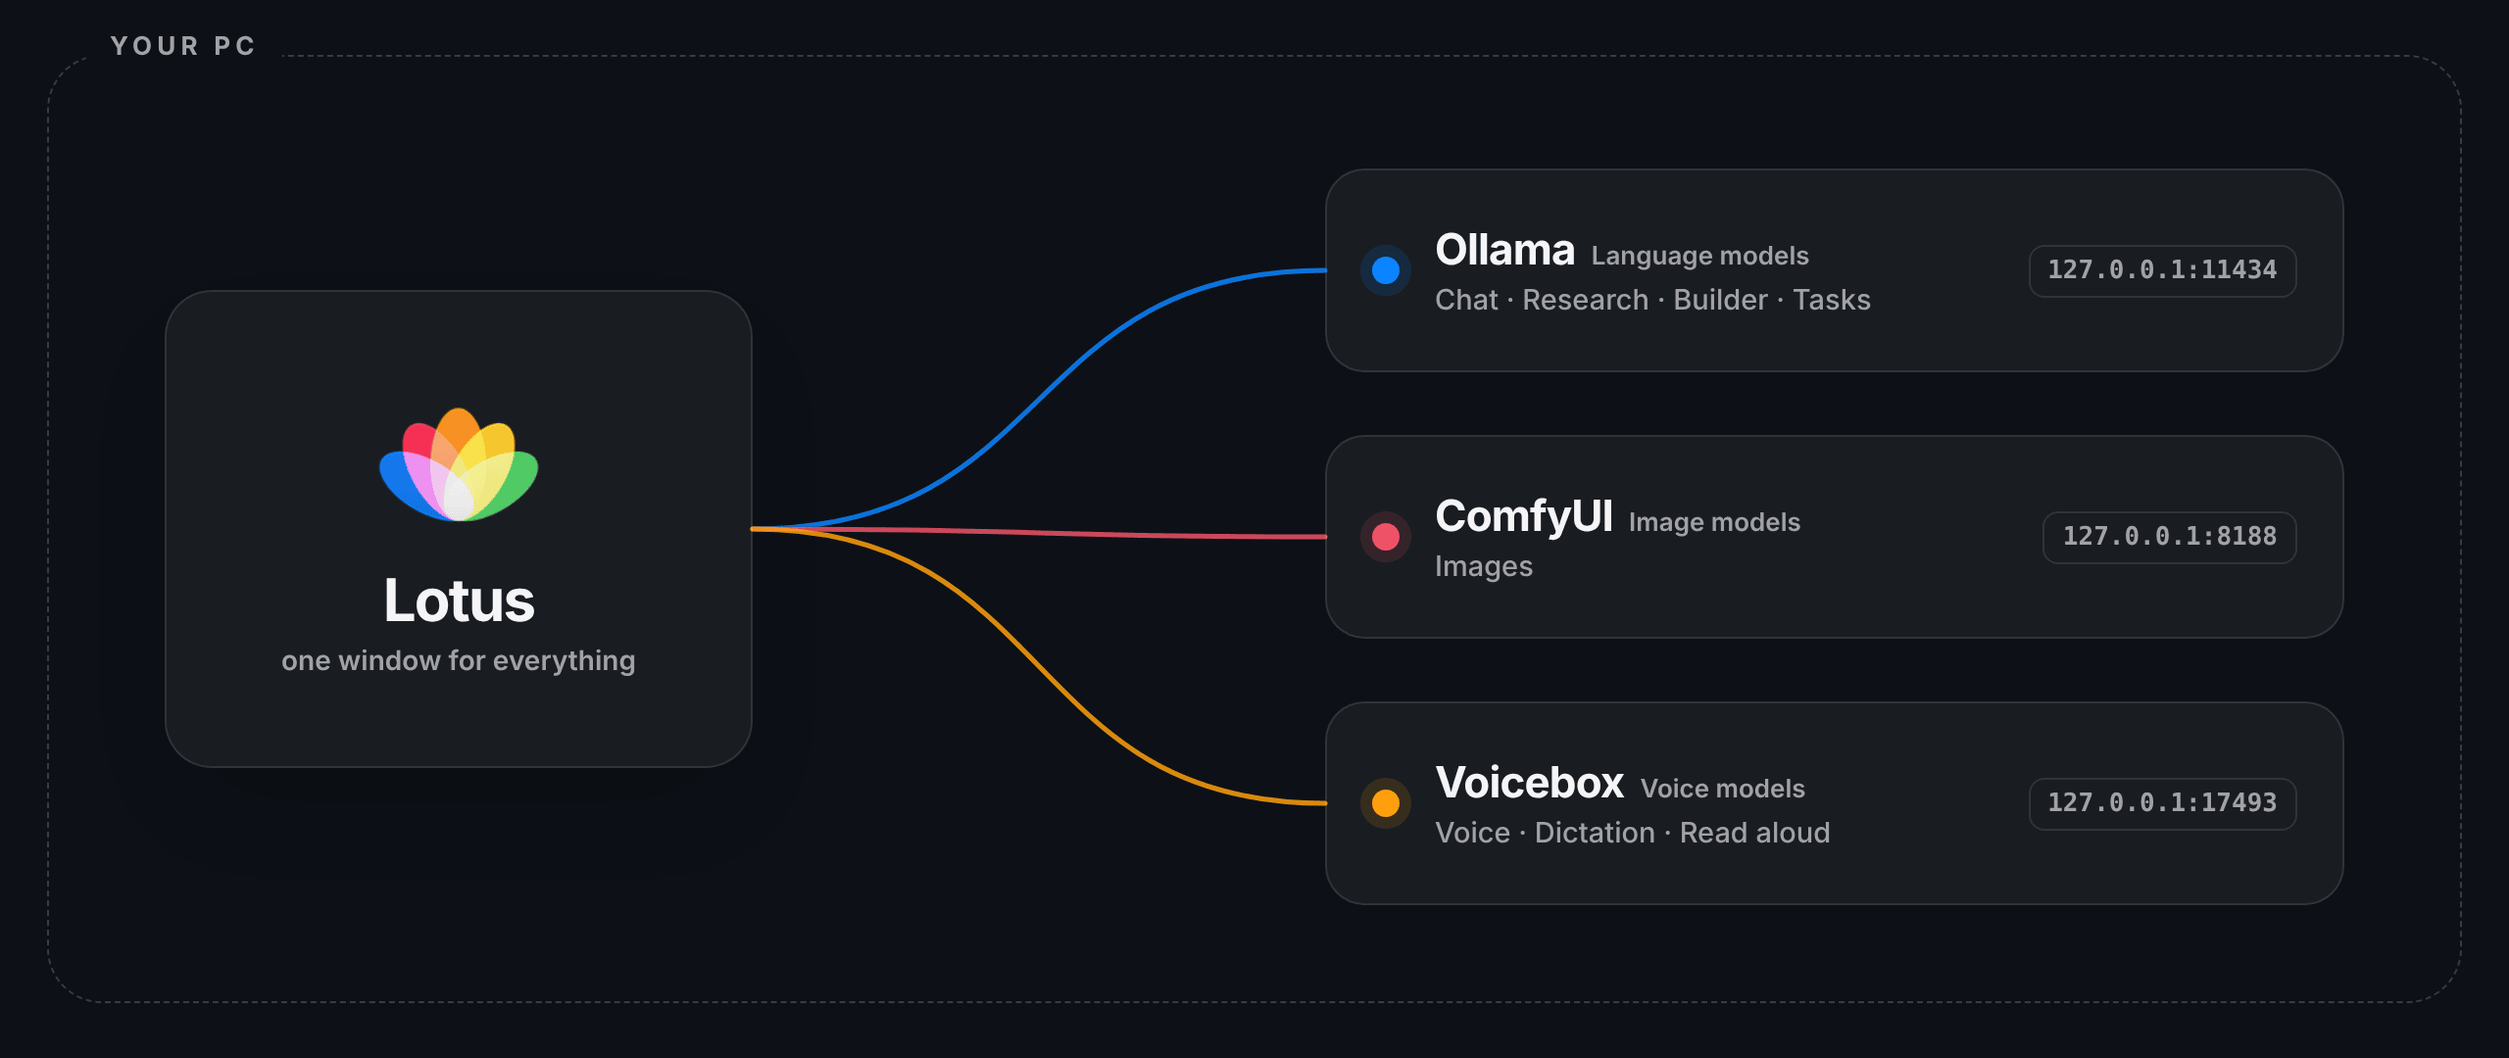
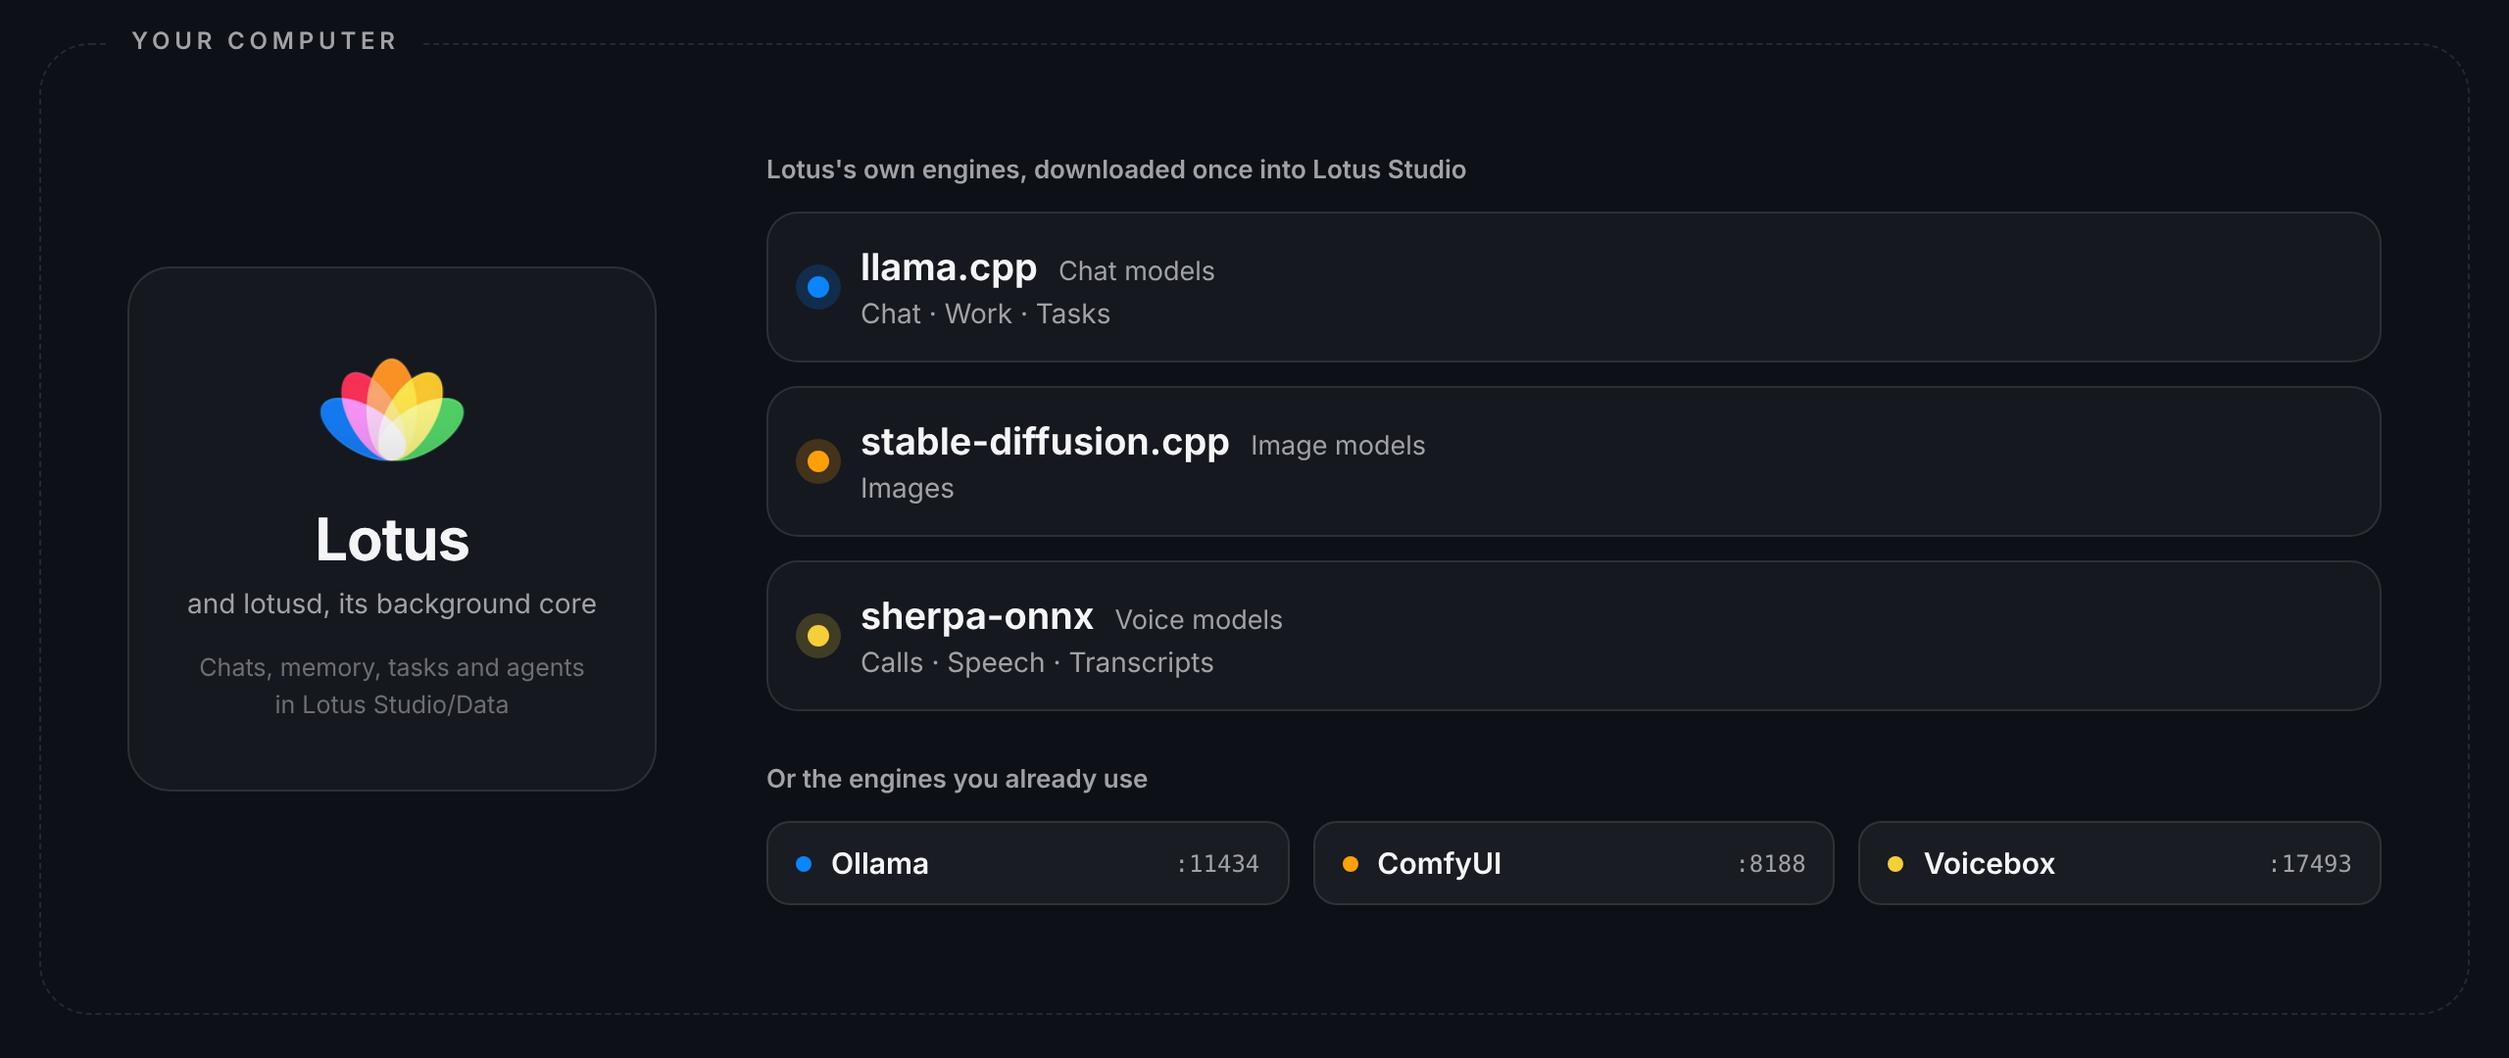
README for 0.11.0: Work and agents, built-in engines, new pictures
Rewrites the features for the five current pages (Chat, Work, Images, Voice,
Tasks), the intro and the engine diagram for Lotus's own engines, the privacy
rows (Work, Chrome control, engine downloads) and requirements. New petal cards,
engine diagram and Work showcase, with the scripts that draw them
(handover/screenshots/readme-art.mjs, shoot-showcase.mjs).

Claude-Session: https://claude.ai/code/session_01Qz56WEG9pRAcwTSVT5HaNP

diff --git a/README.md b/README.md
@@ -9,8 +9,8 @@
 
 ### Your local AI, in one calm window.
 
-Chat, images, voice, research and an app builder for Windows, macOS and Linux,<br>
-running entirely on models that live on your own PC.
+Chat, agents that get work done, images and voice for Windows, macOS and Linux,<br>
+running entirely on models that live on your own computer.
 
 <br>
 
@@ -30,14 +30,14 @@ running entirely on models that live on your own PC.
 
 <picture>
   <source media="(prefers-color-scheme: dark)" srcset="docs/assets/showcase-dark.png">
-  <img alt="The Lotus window on the Images page: a project sidebar, an empty canvas waiting for a prompt, and a parameters panel with canvas size, LoRA and sampling controls." src="docs/assets/showcase-light.png" width="100%">
+  <img alt="The Lotus window on the Work page: Lotus deployed three agents, Researcher, Writer and Checker, which all finished; their parts were combined into a Knee plan document shown in the Artifacts panel." src="docs/assets/showcase-light.png" width="100%">
 </picture>
 
 </div>
 
 <br>
 
-Lotus is a small desktop app that brings everything you do with local AI into one place. It doesn't run models itself. It sits in front of three engines you already know, **Ollama**, **ComfyUI** and **Voicebox**, and gives them one consistent, quiet interface.
+Lotus is a small desktop app that brings everything you do with local AI into one place. It comes with its own engines, so there is nothing else to install: pick a chat, an image and a voice model in the setup guide and start. If you already use **Ollama**, **ComfyUI** or **Voicebox**, Lotus can drive those instead.
 
 No accounts. No cloud. No telemetry. Turn off your Wi-Fi and it keeps working.
 
@@ -54,55 +54,57 @@ Each petal of the logo is a page, and each page wears its petal's colour.
 
 <picture>
   <source media="(prefers-color-scheme: dark)" srcset="docs/assets/petals-dark.png">
-  <img alt="Five cards: Chat in blue, Images in red, Voice in orange, App Builder in yellow, Tasks in green." src="docs/assets/petals-light.png" width="100%">
+  <img alt="Five cards: Chat in blue, Work in red, Images in orange, Voice in yellow, Tasks in green." src="docs/assets/petals-light.png" width="100%">
 </picture>
 
 ### <img src="docs/assets/petal-chat.svg" width="16" height="16"> Chat
 
-Streaming conversations with any model in Ollama, with images, files and whole folders as context.
+Streaming conversations with any local model, with images, documents and whole folders as context.
 
-- **Tools.** Ask in plain words and Lotus does it: list, read and save files in folders you allow, add and move tasks on your board, make an image with your ComfyUI model, remember things, search the web. Each step shows in the reply with its real result, saving files asks you first, and a reply that says it did something no step did is marked as such. Choose what needs asking in Settings → Tools.
-- **Think** works through a problem in passes: analyse, draft, check.
-- **Web** searches the live web and reads the top pages, only when you turn it on.
-- **Deep Research** turns a question into an editable plan, sends parallel agents through public academic databases, and writes a report where every citation links to a source it actually read.
-- **Memory** recalls past chats and facts you've shared, and learns reusable **skills** from complex work. One click pauses it for a chat; Incognito switches it off entirely.
-- Replies render clean Markdown with tables, code and checklists. Code opens in a side panel where you can edit, copy or preview it.
+- **Tools.** Ask in plain words and Lotus does it: read and save files in folders you allow, add tasks, routines and to-do lists, search the web, remember things. Each step shows in the reply with its real result, and a reply that claims something no step did is marked as such. Choose what needs asking in Settings → Tools.
+- **Images from a chat.** Ask for a picture and Lotus suggests a prompt and settings for one of your image models; press *Yes, Create It* and it is made on the Images page.
+- **Attachments.** Paste or drop any number of files: images, PDFs, Word, Excel, PowerPoint, OpenDocument, EPUB, RTF, HTML and text. Everything is read on your computer.
+- **Think** works through a problem before answering. **Web** searches the live web and reads the top pages, only when you turn it on.
+- **Research** turns a question into an editable plan, sends parallel agents through public academic databases, and writes a report where every citation links to a source it actually read.
+- **Memory** recalls past chats and facts you've shared, and learns reusable **skills**. One click pauses it for a chat; Incognito switches it off entirely.
+- Projects group related chats. Replies render clean Markdown with tables, code and checklists; code opens in a side panel where you can edit, copy or preview it.
+
+### <img src="docs/assets/petal-work.svg" width="16" height="16"> Work
+
+Describe a job and Lotus gets it done, handing back real files.
+
+- It writes a **plan** you can follow step by step, and asks you when it needs a decision.
+- For independent parts it **deploys agents** on its own (up to six, three at once), each with its own small face, task and progress bar, in the reply and on the island.
+- Results are **artifacts**: documents, tables, web pages, drawings and code, saved in `Lotus Studio/Work` and shown in the side panel.
+- **Think** shows its reasoning; **Talk** lets you give the job by voice and hear the answer. Copy, try again or edit any request.
+- Optional: let Lotus use your **computer** or a **Chrome** window to finish a job. Both are off by default and every click or keystroke asks first.
 
 ### <img src="docs/assets/petal-images.svg" width="16" height="16"> Images
 
-Text to image through ComfyUI, on your own GPU.
+Text to image and image to image on your own GPU.
 
-- Pick a checkpoint, an aspect ratio and how many images per run.
-- Stack up to four **LoRAs**, each with its own strength.
-- Save prompt styles and recall them with `@`.
-- Download new checkpoints and LoRAs from a link, straight into the right folder.
+- Pick a model, an aspect ratio, a resolution and how many images per run, or start from an example prompt.
+- Each model is kept with the exact VAE and text encoders it needs, so SD 1.5, SDXL, SD 3.5, FLUX and Qwen-Image models have everything they need.
+- Paste or drop reference images, stack **LoRAs**, save prompt styles and recall them with `@`.
+- Every generation gets its own folder in `Lotus Studio/Images`, with `Reference 1, 2…` and `Output 1, 2…` inside.
+- With ComfyUI you also get inpaint, outpaint and upscale.
 
 ### <img src="docs/assets/petal-voice.svg" width="16" height="16"> Voice
 
-A full second front end for Voicebox, sharing its voices and history.
+Everything voice, with Lotus's own engine and no extra install.
 
-- **Speak** in 23 languages with delivery instructions, seeds and an effects chain.
-- **Clone** a voice from a short recording, or describe one in words.
-- **Stories** puts several voices on a timeline you can trim, split, retime and export.
-- **Dictate** transcribes locally, then copies, speaks or sends the text to chat.
-
-### <img src="docs/assets/petal-builder.svg" width="16" height="16"> App Builder
-
-Describe an app and watch a local agent build it.
-
-- With **Plan first**, the agent proposes a checklist you edit and approve before it writes a line.
-- Every file change and command is shown as it happens. Commands ask before they run.
-- A built-in preview reloads as files change, with phone and tablet frames.
-- Start from a template: website, web app, installable phone app, desktop app or mobile app.
+- **Call** your model and talk out loud. It answers as it writes, you can interrupt it, and it can remember the call afterwards.
+- **Speak** any length of text in any voice, with effects and presets. **Voices** copies a voice from 5 to 15 seconds of speech, or tunes a built-in speaker.
+- **Stories** turns a whole text into one line per paragraph, with several voices on a timeline you can play and export.
+- **Speech to Text** writes down recordings of any length, audio or video, in the language they were spoken. Translate the transcript, save it as text or subtitles, or open it in Chat for a summary.
 
 ### <img src="docs/assets/petal-tasks.svg" width="16" height="16"> Tasks
 
-A board you share with Lotus.
+Everything Lotus does on its own, and everything it has learned.
 
-- Assign a card to Lotus and its agent plans the steps, works through them and leaves the result in **Review**.
-- Cards can block each other, so work happens in the right order.
+- **Board.** Assign a card to Lotus and its agent plans the steps, works through them and leaves the result in Review. Cards can block each other, so work happens in order.
 - **Routines** run on a schedule while Lotus is open, and can catch up on runs they missed.
-- The **Skills** library shows everything Lotus has learned, with full history. Edit or delete anything.
+- **Skills**, **Memory**, **Soul** (the instructions that shape Lotus's personality) and **Plugins** each have their own tab. Read, edit or delete anything.
 
 <br>
 
@@ -113,27 +115,27 @@ A board you share with Lotus.
 <td width="50%" valign="top">
 
 **Floating island**<br>
-<sub>An always-on-top pill for quick chat, dictation, reading the clipboard aloud and dropping in files. It also shows background activity and lets you approve or deny a coding agent's permission requests from your terminal.</sub>
+<sub>A small black island at the top of the screen, like a Dynamic Island. It shows running agents and jobs, opens for quick questions, and lets you answer Lotus or approve a coding agent's requests. Off until you turn it on.</sub>
 
 </td>
 <td width="50%" valign="top">
 
-**Fits your GPU**<br>
-<sub>Lotus checks free video memory every few seconds and sizes the context window, file chunks, model choice and number of background agents to match, so nothing runs out of memory.</sub>
+**One home for models**<br>
+<sub>Chat, image and voice models in one catalog, with what fits your graphics card marked. Add any model from Hugging Face. Everything, engines included, lives in your Lotus Studio folder.</sub>
 
 </td>
 </tr>
 <tr>
 <td width="50%" valign="top">
 
-**One home for models**<br>
-<sub>Language, image, LoRA and voice models in one list. Pull any model by name, compare models in the Arena, and watch your hardware in the Monitor.</sub>
+**Fits your GPU**<br>
+<sub>Lotus checks free video memory every few seconds and sizes the context window, file chunks and number of background agents to match. Your profile shows usage over time and live hardware readings.</sub>
 
 </td>
 <td width="50%" valign="top">
 
-**Light, dark or automatic**<br>
-<sub>Follows your system's light or dark setting, or set it yourself. Both side panels fold away from the title bar when you want the space.</sub>
+**Looks at home on every system**<br>
+<sub>Native menus and window buttons on macOS, Windows and Linux. Follows your system's light or dark setting, and both side panels fold away from the title bar.</sub>
 
 </td>
 </tr>
@@ -145,11 +147,11 @@ A board you share with Lotus.
 
 ## <img src="docs/assets/petal-lotus.svg" width="20" height="20"> How it works
 
-Lotus talks to each engine over your own machine's loopback address. Your prompts, images, voices and chats never leave that box.
+Lotus runs your models on your own computer and talks to every engine over its loopback address. Your prompts, images, voices and chats never leave that box.
 
 <picture>
   <source media="(prefers-color-scheme: dark)" srcset="docs/assets/engines-dark.png">
-  <img alt="Diagram: inside a box labelled Your PC, Lotus connects to Ollama for language models at 127.0.0.1:11434, ComfyUI for images at 127.0.0.1:8188, and Voicebox for voice at 127.0.0.1:17493." src="docs/assets/engines-light.png" width="100%">
+  <img alt="Diagram: inside a box labelled Your computer, Lotus and its background core use Lotus's own engines: llama.cpp for chat, Work and Tasks; stable-diffusion.cpp for images; sherpa-onnx for calls, speech and transcripts. Or the engines you already use: Ollama, ComfyUI and Voicebox." src="docs/assets/engines-light.png" width="100%">
 </picture>
 
 You don't have to install any of them. Lotus has its own engines (llama.cpp for chat, stable-diffusion.cpp for images, sherpa-onnx for voice and dictation), downloaded once from each project's GitHub releases into your Lotus Studio folder. Ollama, ComfyUI and Voicebox stay available in Settings → Engines if you already use them. A page whose engine or model is missing tells you so and offers to get it. Lotus never pretends.
@@ -203,7 +205,7 @@ Models download in the background. Everything else lives in **Engines & Models**
 
 - Windows 10 (version 1803 or later) or Windows 11, 64-bit; macOS 11 Big Sur or later; or a 64-bit Linux desktop with WebKitGTK 4.1 (Ubuntu 22.04, Fedora 36, Debian 12 or newer).
 - On macOS the shortcuts use <kbd>Control</kbd> <kbd>Option</kbd> instead of <kbd>Ctrl</kbd> <kbd>Alt</kbd>.
-- A GPU is strongly recommended. For chat, a 7B model or larger works best. The App Builder wants a code-tuned model with at least a 16K context.
+- A GPU is strongly recommended. For chat, a 7B model or larger works best; Work and its agents want a model that handles tools well (8B or larger).
 - Lotus itself is small. The models you download are not, so leave room for them.
 
 </details>
@@ -214,17 +216,18 @@ Models download in the background. Everything else lives in **Engines & Models**
 
 ## <img src="docs/assets/petal-lotus.svg" width="20" height="20"> Privacy
 
-Lotus is local-first by design. Nothing leaves your PC unless you switch it on.
+Lotus is local-first by design. Nothing leaves your computer unless you switch it on.
 
 The setup guide and the Models page download only what you pick, and only from each project's own site: Lotus's engines from github.com (llama.cpp, stable-diffusion.cpp and sherpa-onnx releases, found through api.github.com), outside engine installers from github.com (Ollama, Voicebox) and download.comfy.org (ComfyUI), and models from huggingface.co (chat GGUFs, image models), github.com (sherpa-onnx voice and Whisper models), ollama.com and Voicebox's own sources.
 
 | What | When it goes online | What is sent |
 |---|---|---|
-| Chat, images, voice, memory, tasks | Never | Nothing. All of it stays on your PC. |
+| Chat, Work and its agents, images, voice, memory, tasks | Never | Nothing. All of it stays on your computer. |
 | **Engines on another computer** | Only if you set an engine's address to another computer (Engines → Change, or the setup guide) | Your chats (including any memory Lotus adds to a prompt), image prompts and voice requests go to *that* engine, on the computer you named. An access key you enter is sent only to that engine. |
 | **Web** in chat | Only when you turn it on | Your question to the search service you pick, then a request to each top result page |
+| **Chrome control** in Work | Only when you turn it on in Settings → Tools, and each action asks first | Whatever the pages Lotus opens for you would receive from any browser |
 | **Deep Research** | Only during a research run | Short keyword queries to the academic databases you tick |
-| **Model downloads** | Only when you press *Download* | A request to the link you pasted |
+| **Engine and model downloads** | Only when you pick them in the setup guide or press *Get* / *Download* | A request to that project's own site (see above) or the link you pasted |
 | **Update check** | When you press the button, or at launch if you opt in | A request to this repository's Releases |
 
 No telemetry, no analytics, no remote fonts. Your chats, settings, tasks and memory live in a single file in `Lotus Studio/Data` (`lotus.db`), images in `Lotus Studio/Images`, and skills are plain files you can open and edit. Lotus's background core (lotusd) listens only on `127.0.0.1`, on a port picked at each start, and answers only Lotus's own windows (each run gets a new random key). The full list of hosts is in [`THIRD_PARTY_LICENSES.md`](THIRD_PARTY_LICENSES.md).

diff --git a/CLAUDE.md b/CLAUDE.md
@@ -38,6 +38,8 @@ node handover/screenshots/shoot-s11-install.mjs   # session 11: chat install car
 node handover/screenshots/shoot-s16.mjs           # session 16: Work end to end (fake model, real core), Tasks width, Hardware; 15 checks
 node handover/screenshots/shoot-s16-island.mjs    # session 16: the island compact / expanded / done
 cd core && bun install && bun test       # 83 core tests: 19 session 14 + 37 session 15 + 11 session 16 + 16 session 17 (built-in engines end to end with stand-ins, catalog, image setups, data move)
+node handover/screenshots/shoot-showcase.mjs     # README/website showcase (Work with agents) → docs/assets/showcase-*.png; THEME=dark|light for one
+node handover/screenshots/readme-art.mjs          # README petal cards + engine diagram → docs/assets/{petals,engines}-*.png
 node handover/screenshots/shoot-s20.mjs           # 0.9.6: Call tab, past call, Stories whole text, STT translation tabs, Images resolution + examples, Settings General/Chat; 8 checks
 node handover/screenshots/shoot-s17.mjs           # session 17: built-in engines in the app (stand-in llama-server/sd-cli/sherpa-onnx, real core): chat, image, Models, Image Setups, Voice, guide; 19 checks
 node handover/verification/agent-e2e.mjs  # 19 checks (session 15): Chat → agent → tools in Chromium against a real core and fake engines; screenshots /tmp/shots/s15-*
